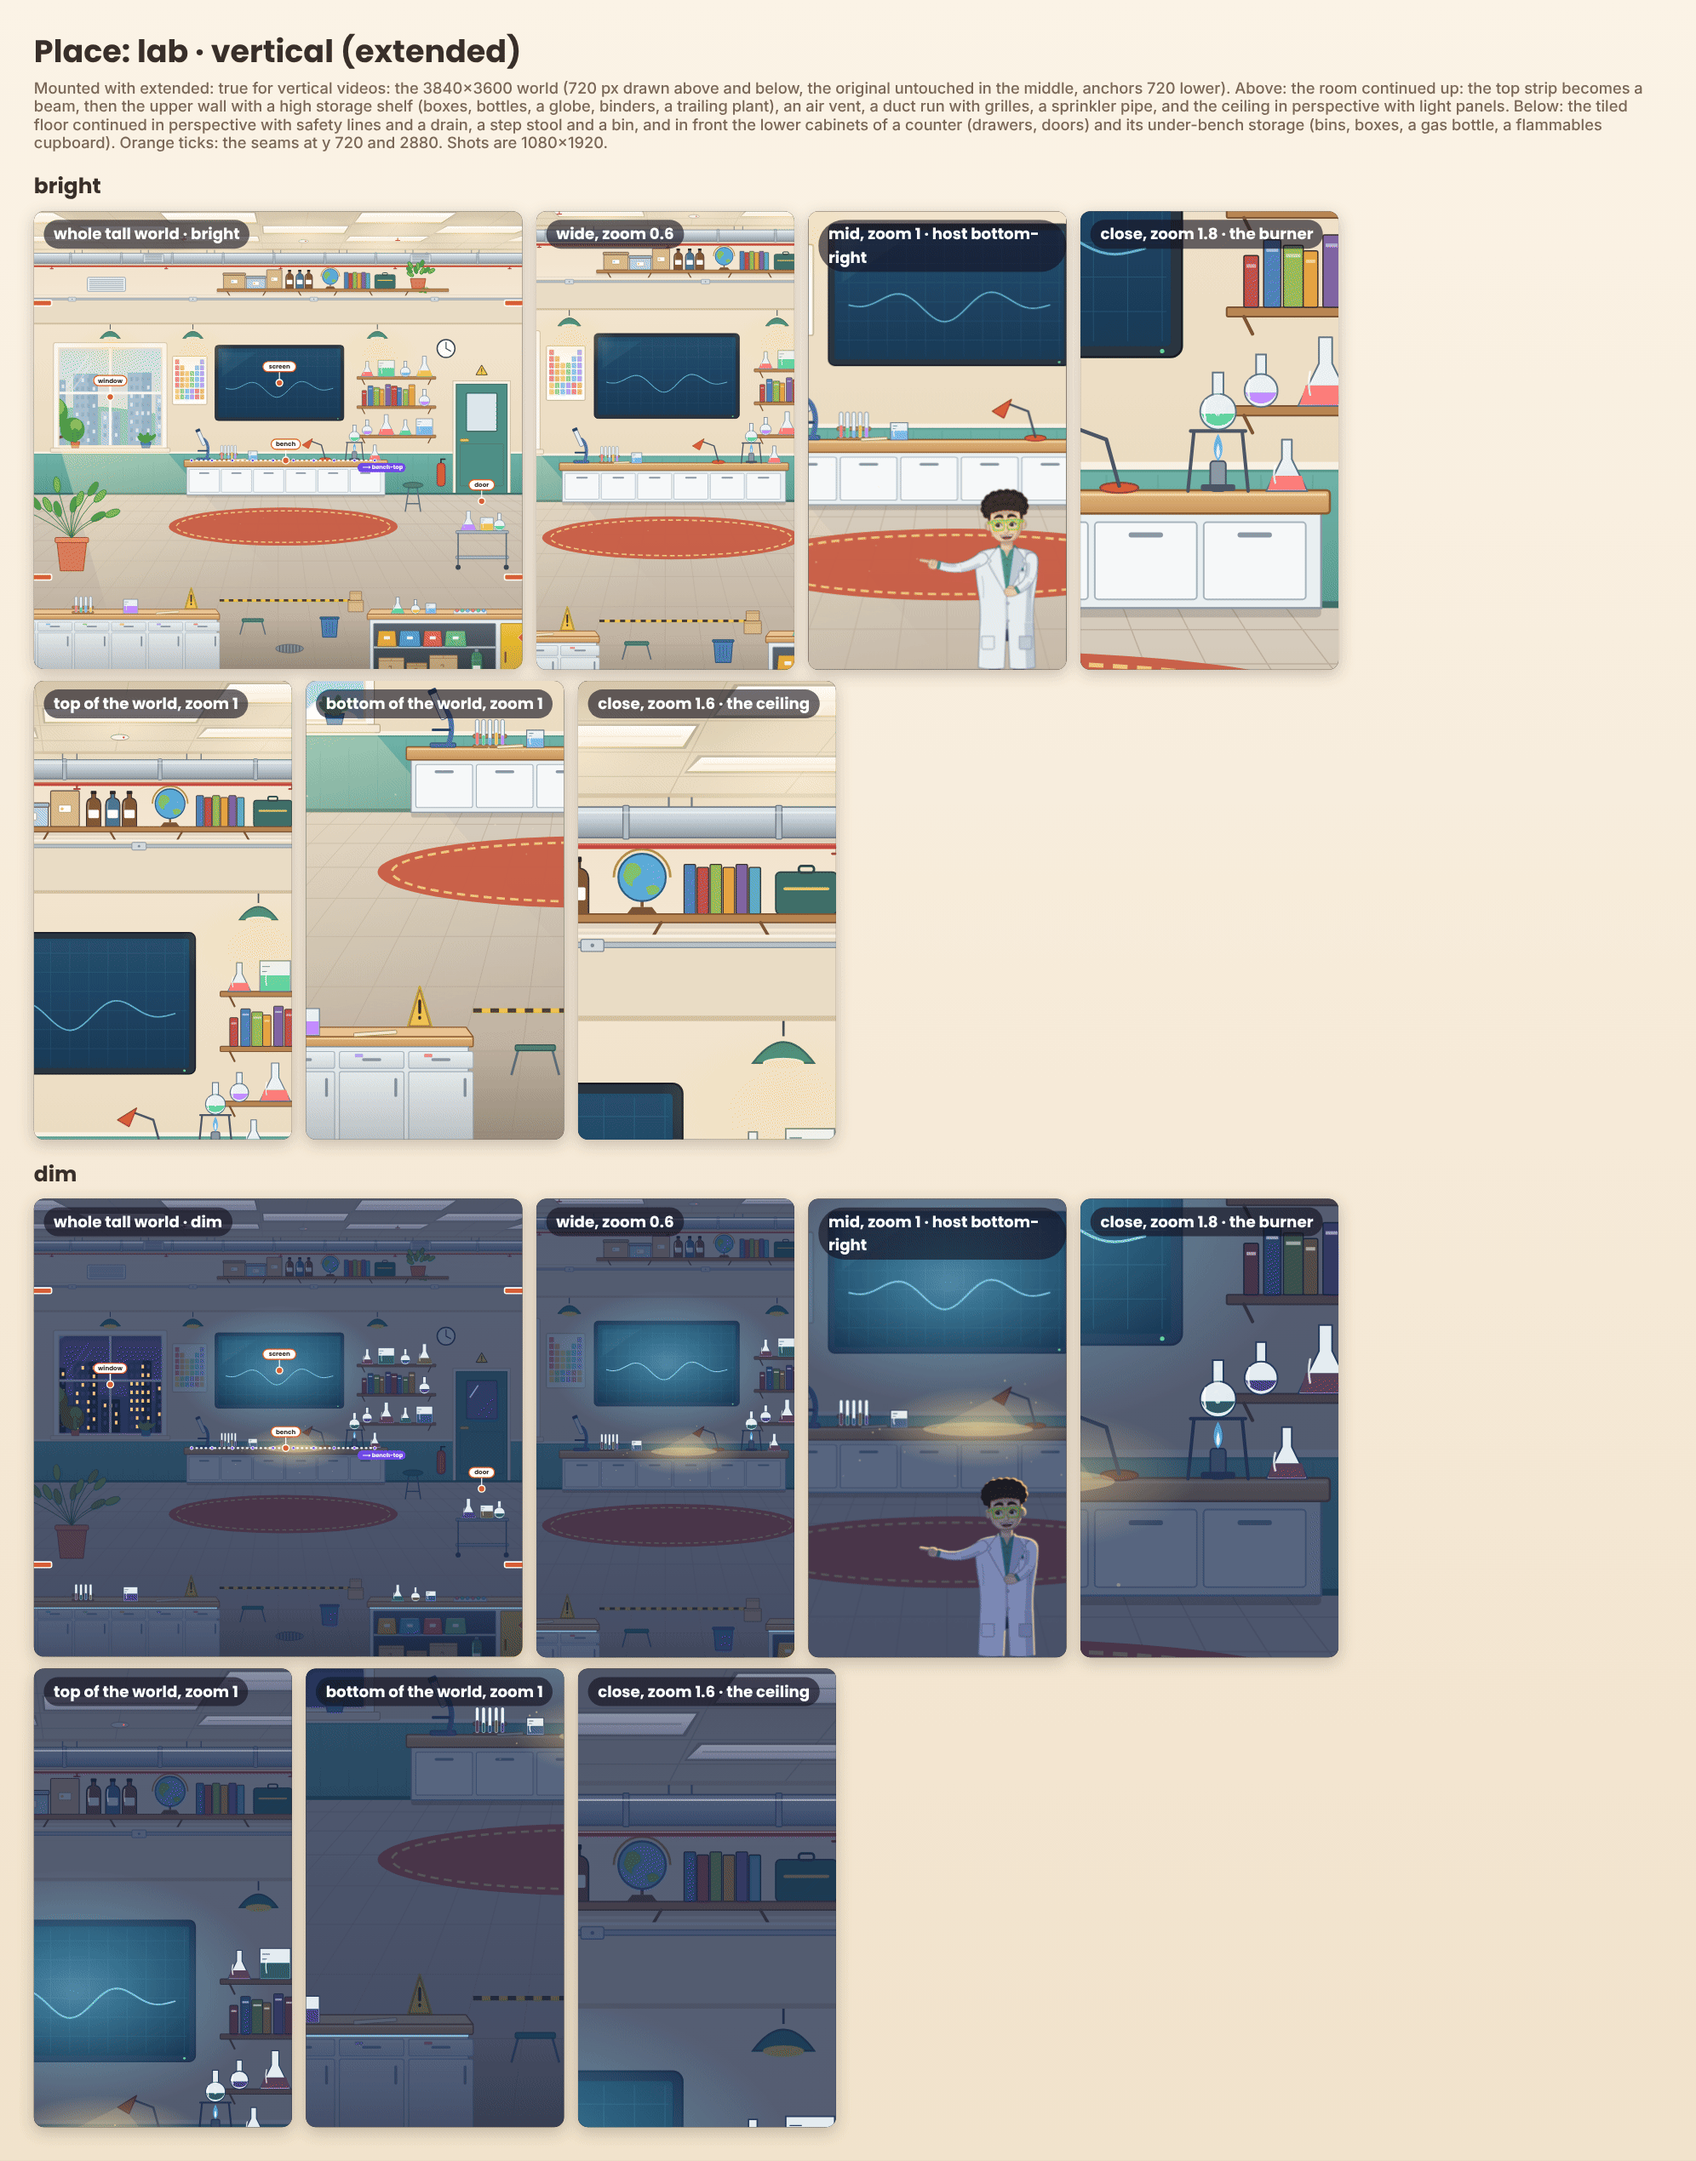
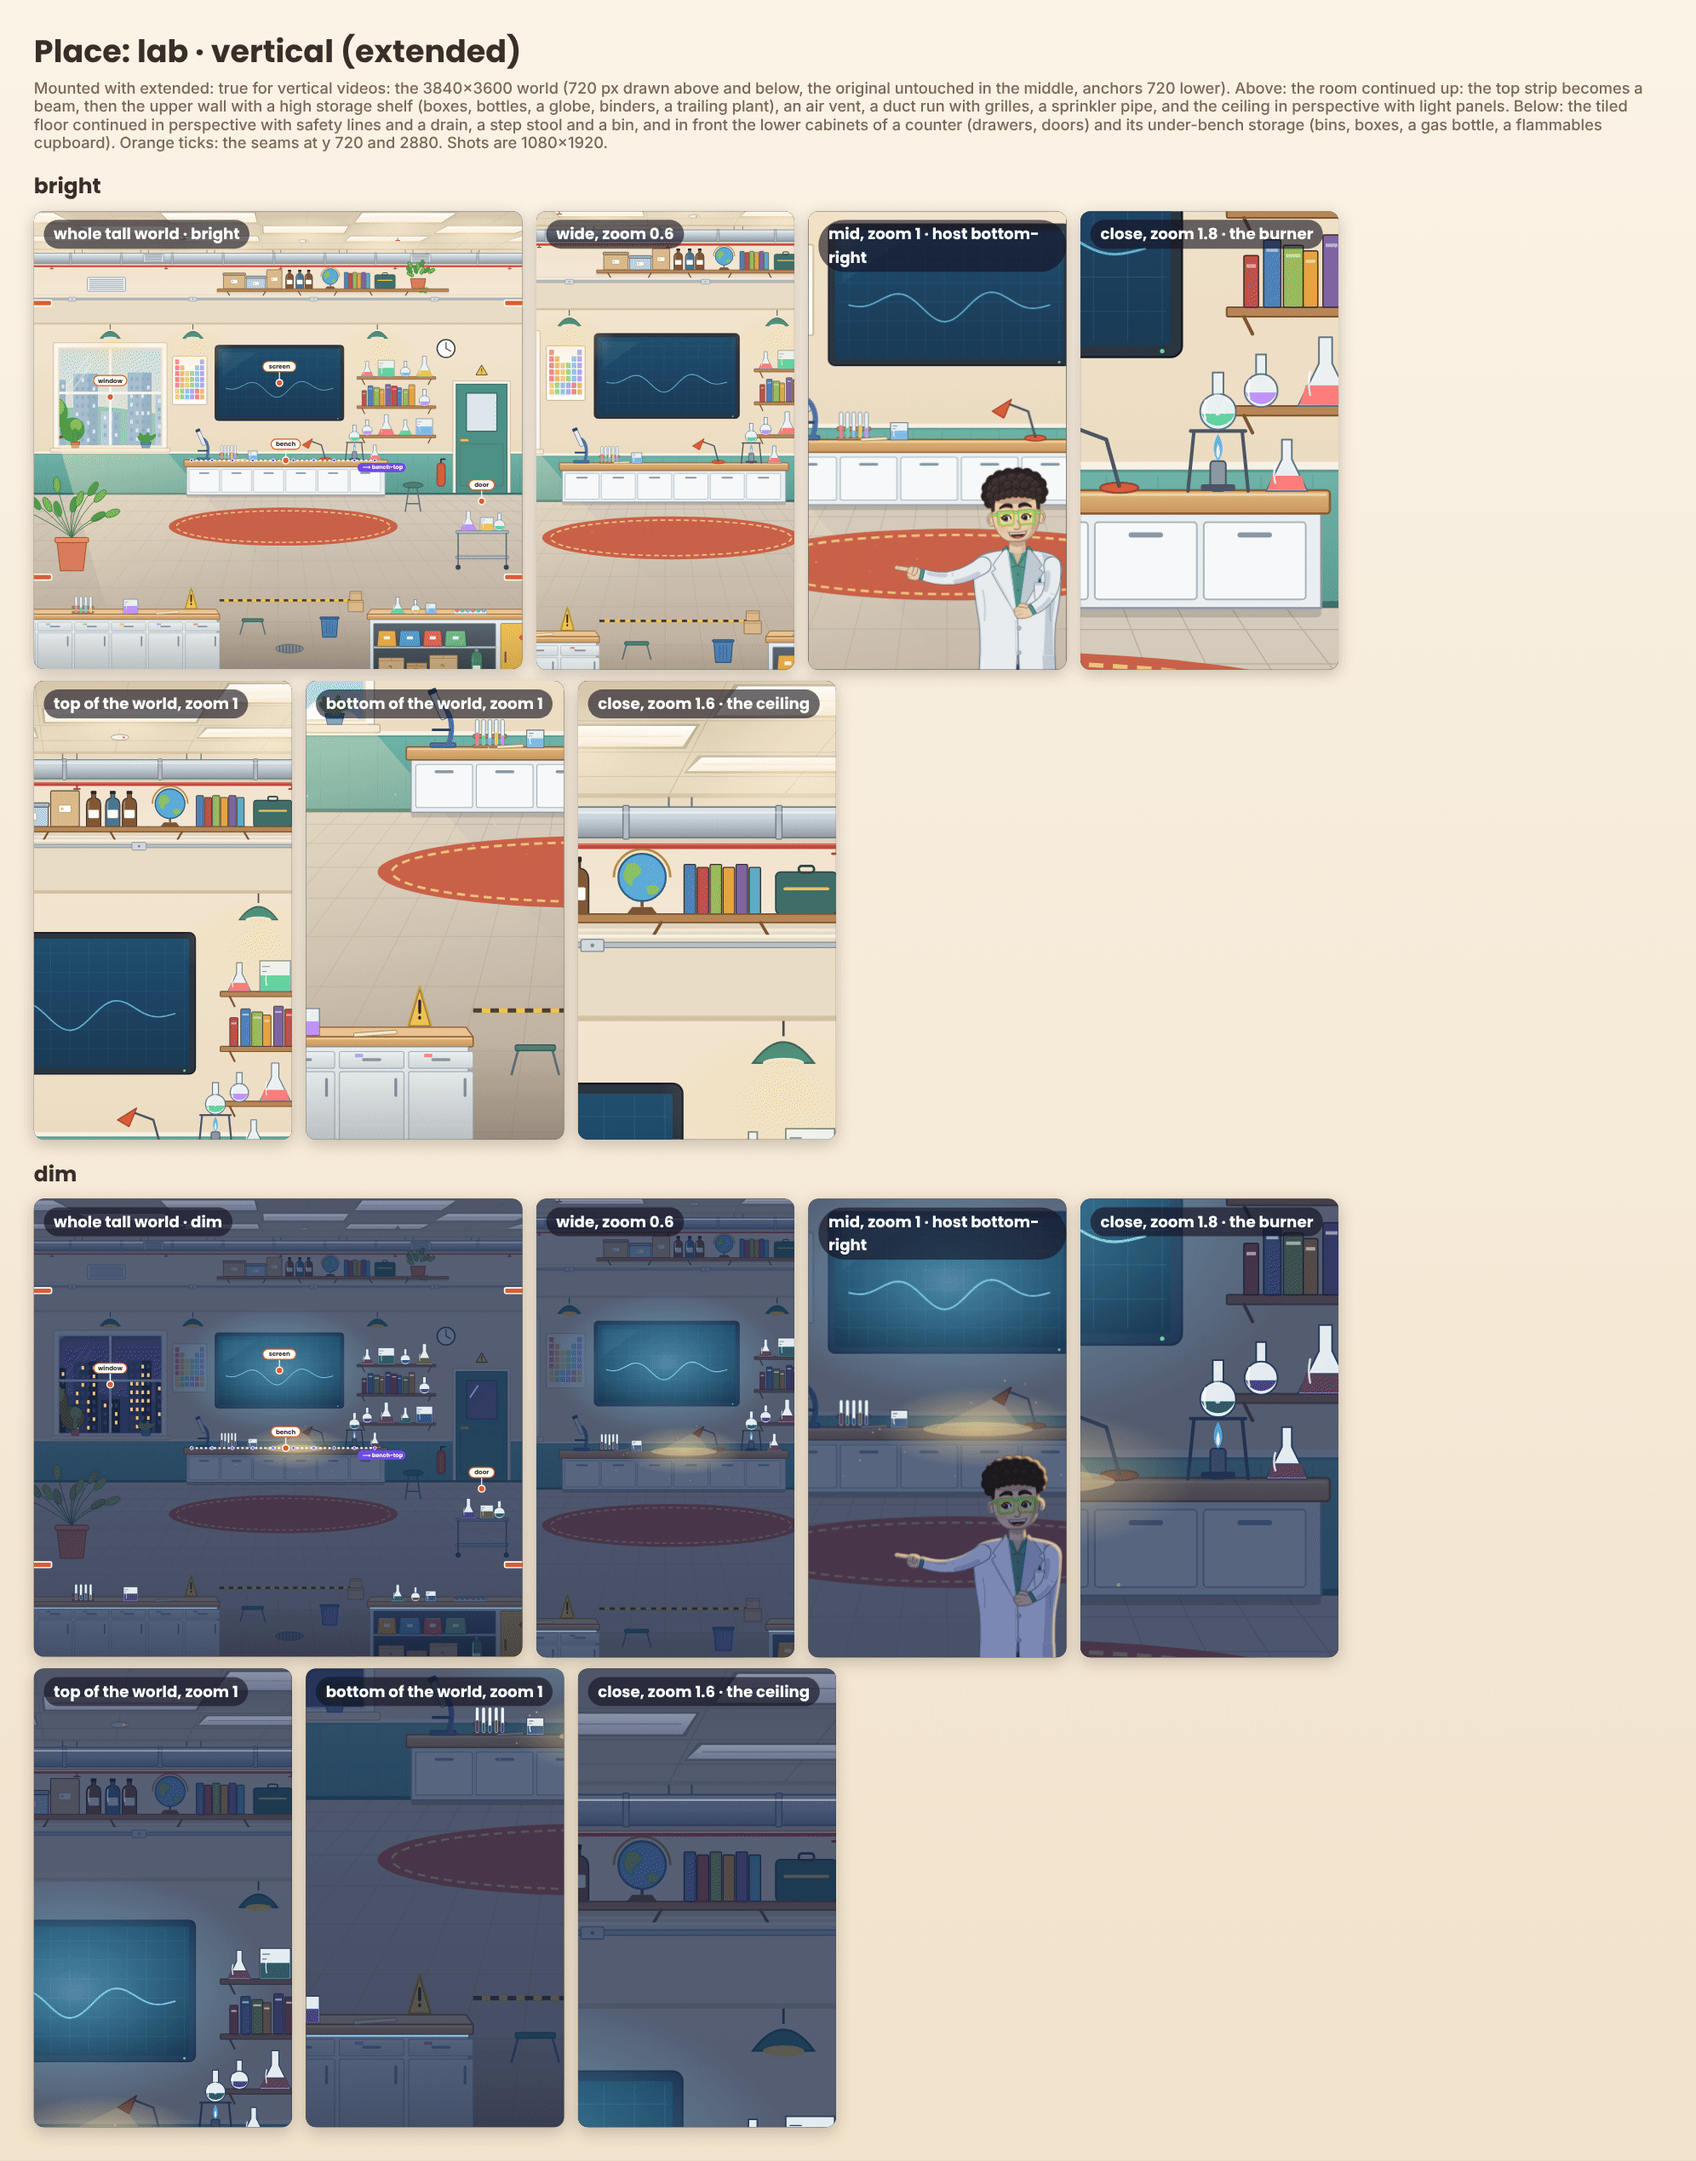
feat: bigger host in vertical (face zone 1060–1400, captions 840–1020)
Owner-approved: bottom slot k 0.69 -> 0.97 (face box ~324 px tall), x 205/875,
HFKit.VERTICAL zones exported, plan/spec updated, sheets regenerated.

Claude-Session: https://claude.ai/code/session_01Tz5zWaGgMzak1Zwa8mwzTk

diff --git a/hf-kit/test/actor.test.js b/hf-kit/test/actor.test.js
@@ -355,10 +355,13 @@ test("slots follow the canvas: landscape side slots unchanged, vertical bottom s
     assert.ok(V.bottom && V.bottom.left.x < 540 && V.bottom.right.x > 540 && V.bottom.k > 0, JSON.stringify(V.bottom));
     assert.equal(V.bottom.left.x + V.bottom.right.x, 1080, "mirrored about the centre");
     assert.equal(K.rig.slots({ width: 1080, height: 1920 }).bottom.k, V.bottom.k);
+    // owner 2026-11-25: the host is about 1.4x bigger (0.69 -> 0.97), face box 320-330 px tall
+    assert.equal(V.bottom.k, 0.97);
+    assert.deepEqual([V.bottom.left.x, V.bottom.right.x], [205, 875]);
   } finally { K.setCanvas(null); }
 });
 
-test("vertical bottom slot: face box within y 1150-1400, body cropped by the frame bottom", () => {
+test("vertical bottom slot: face box within y 1060-1400, body cropped by the frame bottom", () => {
   try {
     K.setCanvas(K.FORMATS.vertical);
     for (const slot of ["bottom-left", "bottom-right"]) {
@@ -366,8 +369,9 @@ test("vertical bottom slot: face box within y 1150-1400, body cropped by the fra
       for (const [t, st] of [[0, {}], [1, { pose: "talk", expression: "happy", mouth: 0.6 }], [2.3, { pose: "celebrate" }], [3, { pose: "point-left", expression: "surprised" }]]) {
         a.update(t, st);
         const b = a.box(t);
-        assert.ok(b.y >= 1150 && b.y + b.height <= 1400, slot + " face box " + JSON.stringify(b));
-        assert.ok(b.x >= 0 && b.x + b.width <= 1080, slot + " face box inside the frame width");
+        assert.ok(b.y >= 1060 && b.y + b.height <= 1400, slot + " face box " + JSON.stringify(b));
+        assert.ok(b.x >= 40 && b.x + b.width <= 1040, slot + " face box inside x 40-1040");
+        assert.ok(b.height >= 320 && b.height <= 330, slot + " face box height " + b.height);
         assert.ok(a.anchors.feet(t).y > 1920, slot + " feet below the frame bottom");
       }
       // he looks toward the middle of the frame

diff --git a/hf-kit/src/actor/rig.js b/hf-kit/src/actor/rig.js
@@ -845,11 +845,11 @@
    *     units in 456 px of a 1920 x 1080 frame): k 0.892, x 300 / 1620, feet at y 1470 (below the
    *     frame edge); scaled with the canvas for other landscape sizes.
    *   bottom: {left: {x}, right: {x}, k, feetY}, the vertical host: shown from about the waist up,
-   *     cropped by the frame bottom, face box between y 1150 and 1400 on 1080 x 1920 (centred on
-   *     y 1275), left or right of centre.
+   *     cropped by the frame bottom, face box 320-330 px tall between y 1060 and 1400 on 1080 x 1920 (centred on
+   *     y 1230), left or right of centre.
    * On a portrait canvas there is no side slot: "left" / "right" are the bottom slot's sides. */
   var SIDE_K = Math.round((1.35 * 456 / (724 - 34)) * 1000) / 1000; // 0.892
-  var BOTTOM_K = 0.69, BOTTOM_X = 250, BOTTOM_FACE_Y = 1275;
+  var BOTTOM_K = 0.97, BOTTOM_X = 205, BOTTOM_FACE_Y = 1230;
 
   function slots(canvas) {
     var W = (canvas && canvas.width) || 1920, H = (canvas && canvas.height) || 1080;

diff --git a/hf-kit/src/shell.js b/hf-kit/src/shell.js
@@ -227,7 +227,15 @@
     return { update: update, el: bar };
   }
 
+  /* Vertical (1080 x 1920) layout zones. Owner 2026-11-25: host bigger; captions sit above his face zone. */
+  var VERTICAL = Object.freeze({
+    captionBand: Object.freeze({ top: 840, bottom: 1020 }),
+    faceZone: Object.freeze({ top: 1060, bottom: 1400 }),
+    safe: Object.freeze({ x0: 64, x1: 940, y0: 200, y1: 1420 }),
+  });
+
   Object.assign(K, {
+    VERTICAL: VERTICAL,
     PRESENTER_WIDTH: PRESENTER_WIDTH, CAPTION_POSITIONS: CAPTION_POSITIONS, resolveStyle: resolveStyle, layout: layout,
     kitFrame: kitFrame, heroFrame: heroFrame, driftSafe: driftSafe, DRIFT_INSET: DRIFT_INSET, view: view, normaliseAnchors: normaliseAnchors, drift: drift,
     shell: shell, mountCaptions: mountCaptions, captionWord: captionWord,

diff --git a/hf-kit/test/canvas.test.js b/hf-kit/test/canvas.test.js
@@ -198,3 +198,10 @@ test("a mounted scene element takes the canvas size", () => {
     delete globalThis.gsap;
   }
 });
+
+
+test("HFKit.VERTICAL pins the vertical zones (owner 2026-11-25: host bigger, captions above his face)", () => {
+  assert.deepEqual(JSON.parse(JSON.stringify(globalThis.HFKit.VERTICAL)), {
+    captionBand: { top: 840, bottom: 1020 }, faceZone: { top: 1060, bottom: 1400 }, safe: { x0: 64, x1: 940, y0: 200, y1: 1420 } });
+  assert.ok(globalThis.HFKit.VERTICAL.captionBand.bottom + 40 <= globalThis.HFKit.VERTICAL.faceZone.top, "40 px gap above the face zone");
+});

diff --git a/docs/superpowers/specs/2026-11-24-vertical-short-form-design.md b/docs/superpowers/specs/2026-11-24-vertical-short-form-design.md
@@ -88,6 +88,7 @@ Formats: vertical-only per video with landscape on request (**owner: A**) vs bot
   bottom caption/username area and the top bar.
 - **Captions** sit in the lower-middle of the safe zone (around y 1180–1400), 64 px, max width
   about 860 px, two lines max, word highlight as today.
+  > 2026-11-25 owner: host bigger in vertical (face zone 1060–1400, captions 840–1020).
 - `python -m tools.hf.snapshot <run> --safe-zone` reports any caption, label or tag box outside
   the safe zone (like the overlap report; exit 1 if any). Sage treats it as must-fix.
 
@@ -158,6 +159,7 @@ Formats: vertical-only per video with landscape on request (**owner: A**) vs bot
    his **face between y ≈ 1150 and 1400** (above the apps' bottom text band). Captions move up to
    the **middle-lower band (y ≈ 940–1120)** so they never cover his face; the overlap check keeps
    flagging any text on a face. Exact numbers are tuned on the vertical sheets within these bands.
+   > 2026-11-25 owner: host bigger in vertical (face zone 1060–1400, captions 840–1020).
 4. **Wide shots in a narrow frame.** The zoom floor stays 0.6×. A tall frame shows about 1800
    world px across, so "wide" in vertical means **tall reveals and pans**, not side-by-side.
    Shot validation **warns** when anchors used in one shot are more than about 1700 px apart

diff --git a/docs/superpowers/plans/2026-11-24-vertical-short-form.md b/docs/superpowers/plans/2026-11-24-vertical-short-form.md
@@ -26,8 +26,8 @@
   - dive 4×/s;
   - cut is instant.
 - **Vertical text safe zone:** text (captions, labels, tags, titles) stays inside x 64–940, y 200–1420. The host is exempt.
-- **Vertical captions:** a band at y 940–1120, 64 px, max width 860, at most 2 lines, with word highlight.
-- **Vertical host:** the `bottom` slot, left or right. He is cropped by the frame bottom, his face sits between y 1150–1400, and no text ever covers his face (overlap check).
+- **Vertical captions:** a band at y 840–1020 (a 40 px gap above the host's face zone), 64 px, max width 860, at most 2 lines, with word highlight. Exported as `HFKit.VERTICAL`.
+- **Vertical host:** the `bottom` slot, left or right. He is cropped by the frame bottom, about 1.4x bigger (k 0.97, face box about 320–330 px tall), his face sits inside y 1060–1400 (chin above 1400, clear of the apps' bottom text) and inside x 40–1040, and no text ever covers his face (overlap check). Owner decision 2026-11-25.
 - **Anchor spread:** shot validation warns when anchors used in one vertical shot are more than 1700 world px apart horizontally.
 - **Short recipe (vertical):**
   - target 45–75 s, hard limits 30–180 s;
